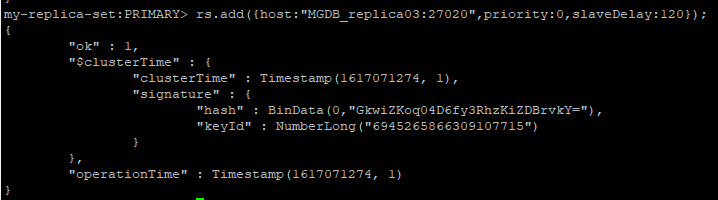
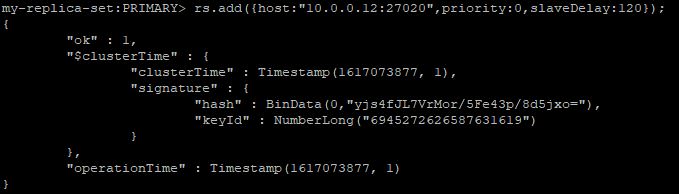
Readme update

diff --git a/README.md b/README.md
@@ -470,7 +470,7 @@ Deberiamos poder ver las dos colecciones que se crearon en el otro nodo.
 
 Por cada nuevo nodo que se agregue se deben crear sus respectivas credenciales TLS y levantar la instancia en mongo, para ello:
 
-- vamos a la carpeta ssl/node_cnf y ejecutamos lo siguiente recordando cambiar ZZ por el número de nodo a agregar:
+- vamos a la carpeta *ssl/node_cnf* y ejecutamos lo siguiente recordando cambiar *ZZ* por el número de nodo a agregar:
 
 > cp node_cnf/nodoXX_CN.cnf node_cnf/nodoZZ_CN.cnf
 
@@ -478,21 +478,19 @@ Editamos el commonName que está en la sección server_distinguished_name, coloc
 
 > nano node_cnf/nodoZZ_CN.cnf
 
-Luego vamos vamos a la carpeta ssl y le damos permiso de ejecutación al script addNode.sh
-
-> sudo chmod 775 addNode.sh
-
-Finalmente lo ejecutamos
+Finalmente ejecutamos el script de *addNode*
 
 .- Primer parámetro el nombre del nuevo nodo, debe tener formato aaaaNN, tal como el nombre del archivo de configuracion (sin el _CN.cnf):
 
 .- Segundo parámetro la clave del certificado CA
 
-> source ./addNode.sh node_03 b2RlIjoiUEdPIiwiZmFsbGJhY2tEYXRlIjoiMjAyMS
+> source ./addNode.sh nodo03 b2RlIjoiUEdPIiwiZmFsbGJhY2tEYXRlIjoiMjAyMS
 
-Esos nos crea una nueva carpeta con el nombre del nuevo nodo y los respectivos certificados
+Si nos da error de ejecuciótreen entonces vamos a la carpeta ssl y le damos permiso de ejecutación al script addNode.sh
 
-Ahora agregamos el contenedor en Docker, 
+> sudo chmod 775 addNode.sh
+
+Finalmente nos crea una nueva carpeta con el nombre del nuevo nodo y los respectivos certificados. Ahora agregamos el contenedor en Docker: 
 
 Primero creamos la carpeta de datos en la carpeta data, para ellos vamos a la raíz del proyecto y ejecutamos:
 
@@ -502,7 +500,7 @@ Primero creamos la carpeta de datos en la carpeta data, para ellos vamos a la ra
 
 Luego cambie los parámetros del siguiente código según comop se muestra:
 
---name por el nombre del contenedor
+--name por el nombre del contenedor, reemplaza XX por el numero de nodo, este es el tres (03)
 -p recuerda ajustar el puerto para que siga la secuencia o al menos no coincida con alguno ya ocupado, cambia XX (el último era 19)
 --v replicaXX por el nombre de la carpeta data
 --v NODO_XX por el nombre del nodo donde estan los certificados
@@ -521,7 +519,10 @@ Luego cambie los parámetros del siguiente código según comop se muestra:
 mongo:4.4.4-bionic \
 mongod --config /data/config/serverCluster.conf
 ```
+
 Finalmente lo ejecutamos en la consola y esperamos a que termine de cargar en Docker el nuevo nodo, puedes ver su status en el log de portainer.
+
+![portainerNode03.PNG](assets/portainerNode03.PNG)
 
 Luego tenemos que entrar al replicaset para configurar el nuevo nodo:
 
@@ -533,11 +534,14 @@ Luego nos logueamos
 
 >$ mongo --tls --tlsCertificateKeyFile /data/ssl/mdb_nodes_keycert.pem --tlsCAFile /data/ssl/server_root_CA.crt --tlsCertificateKeyFilePassword b2RlIjoiUEdPIiwiZmFsbGJhY2tEYXRlIjoiMjAyMS -u $MONGO_INITDB_ROOT_USERNAME -p $MONGO_INITDB_ROOT_PASSWORD --tlsAllowInvalidHostnames
 
-Y ejecutamos
+Y ejecutamos... **Recuerda cambiar XX por el numero de nodo y YY por el nuevo puerto**:
 
-Recuerda cambiar XX por el numero de nodo y YY por el nuevo puerto:
+> rs.add({host:"<IP ADRESS OR NAME>:270YY",priority:0,slaveDelay:120});
 
-> rs.add({host:"MGDB_replicaXX:270YY",priority:0,slaveDelay:120});
+Para este caso es:
+
+> rs.add({host:"10.0.0.12:27020",priority:0,slaveDelay:120});
+
 
 ![addNewRSNode.PNG](assets/addNewRSNode.PNG)
 
